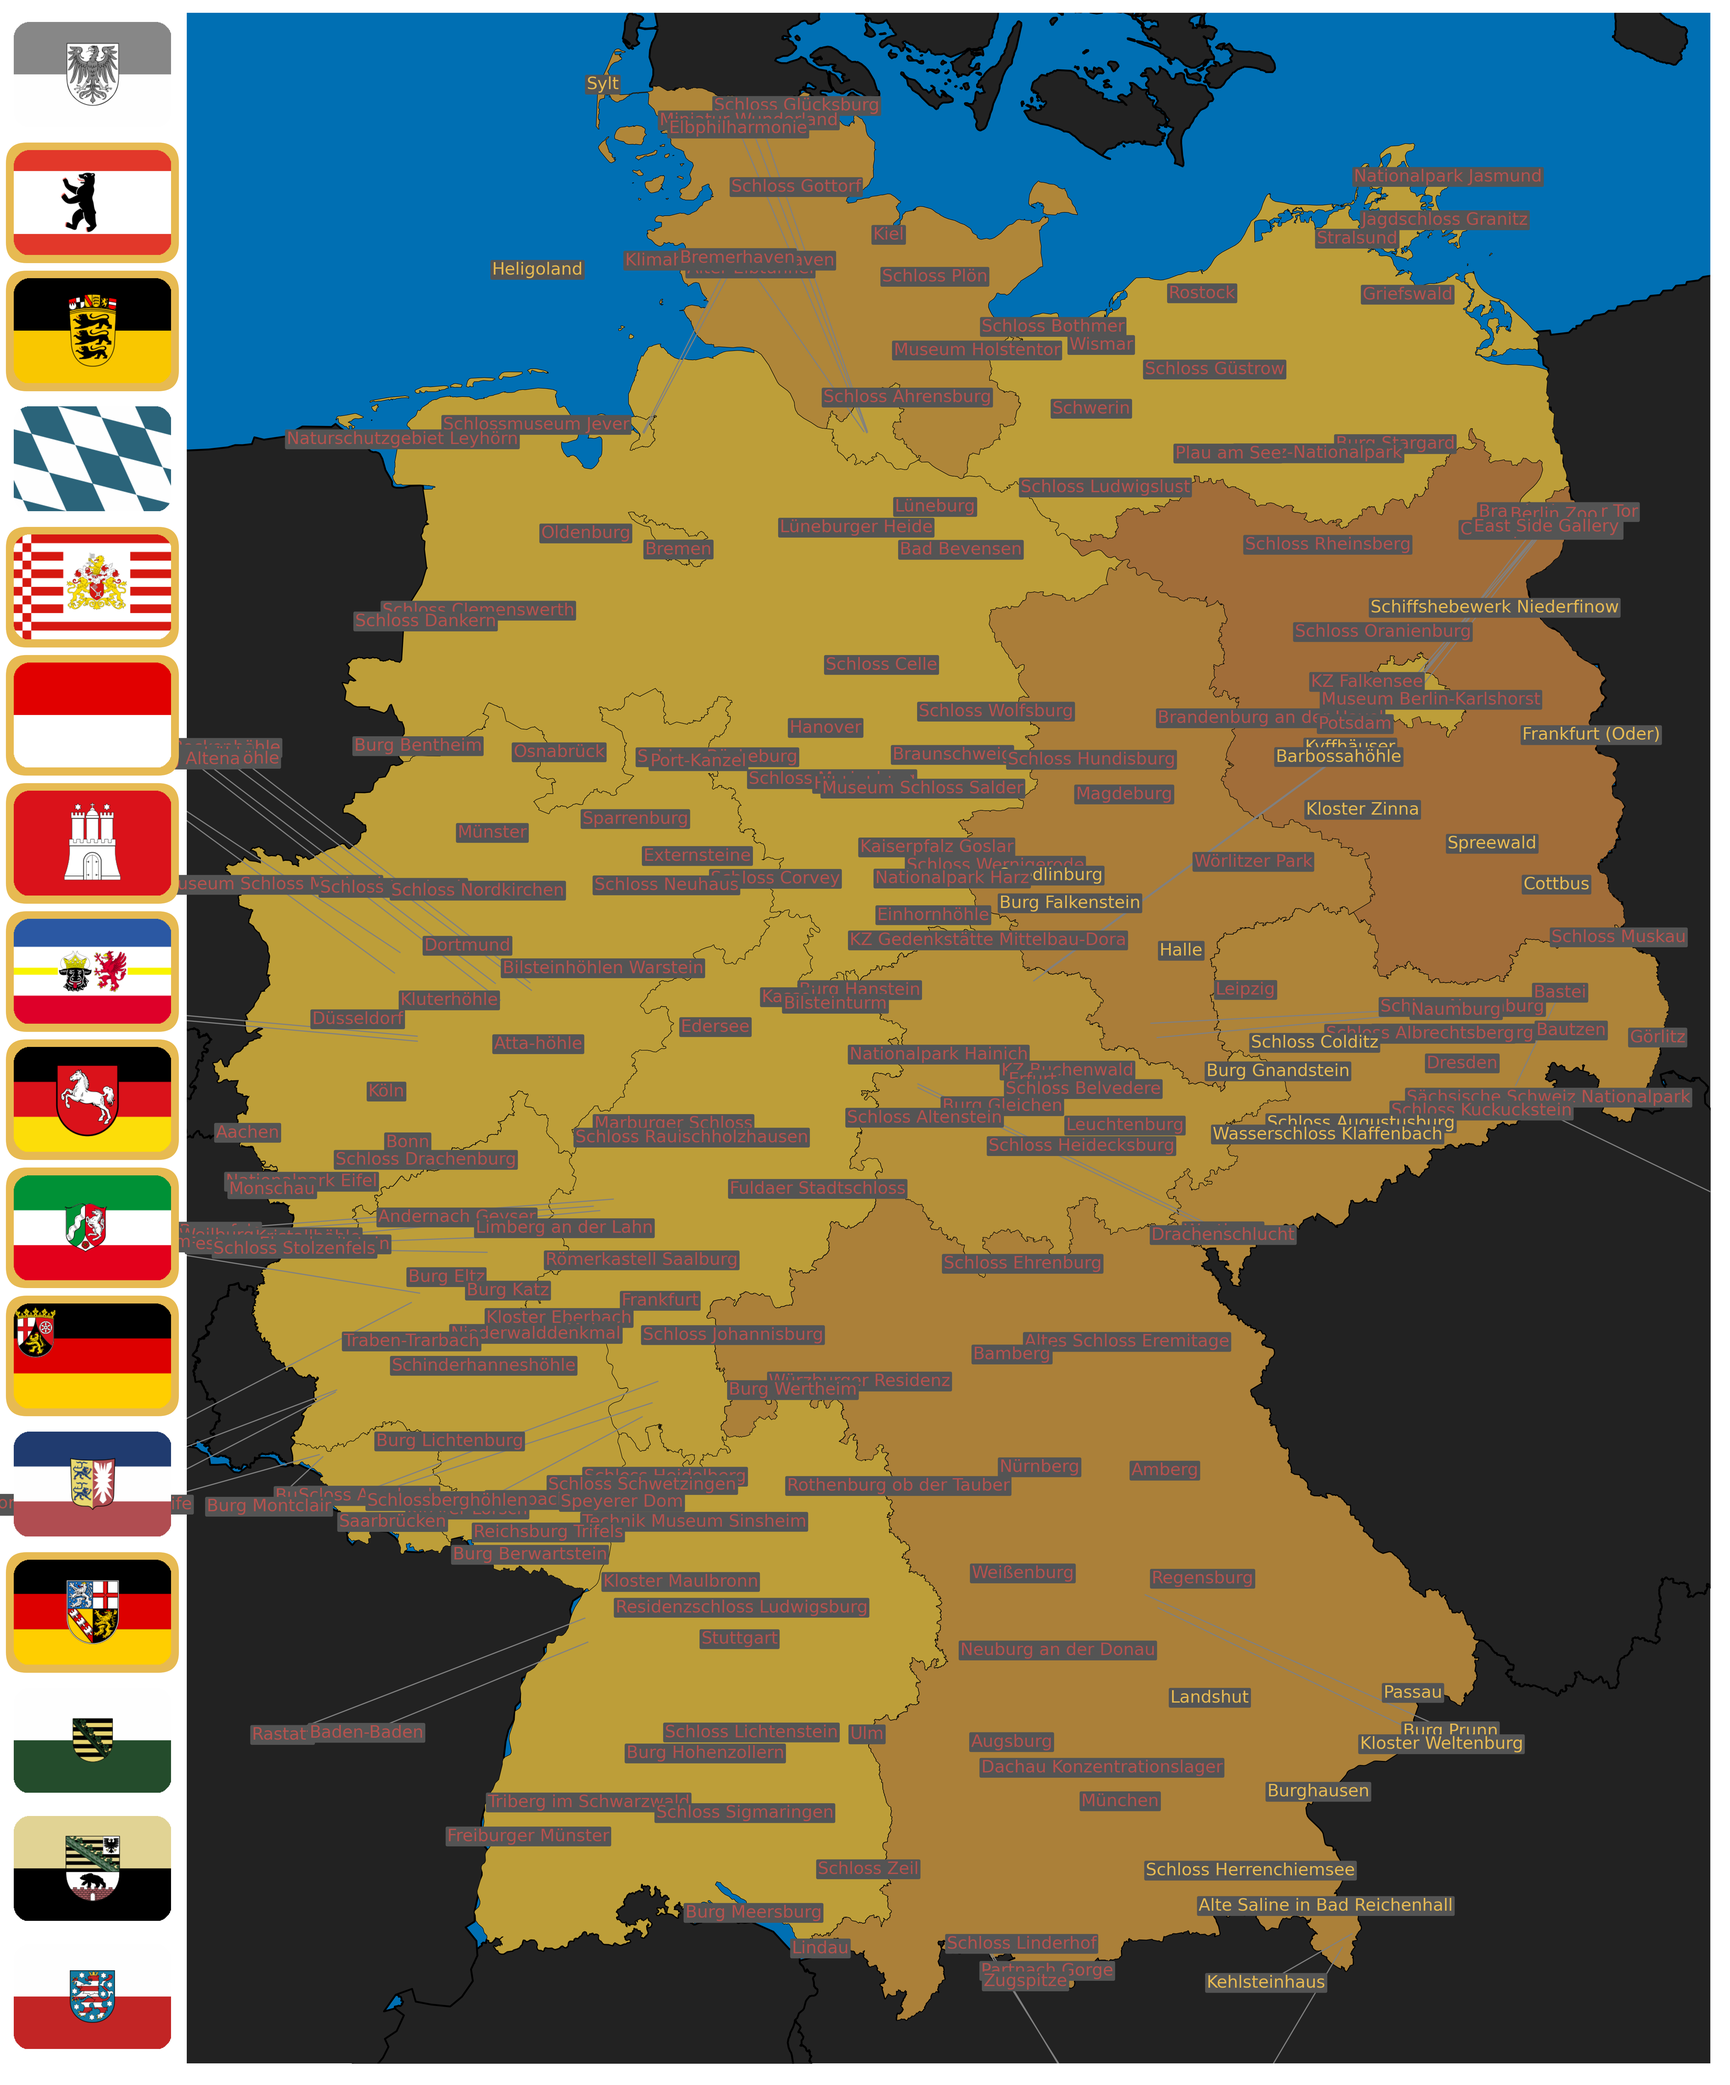
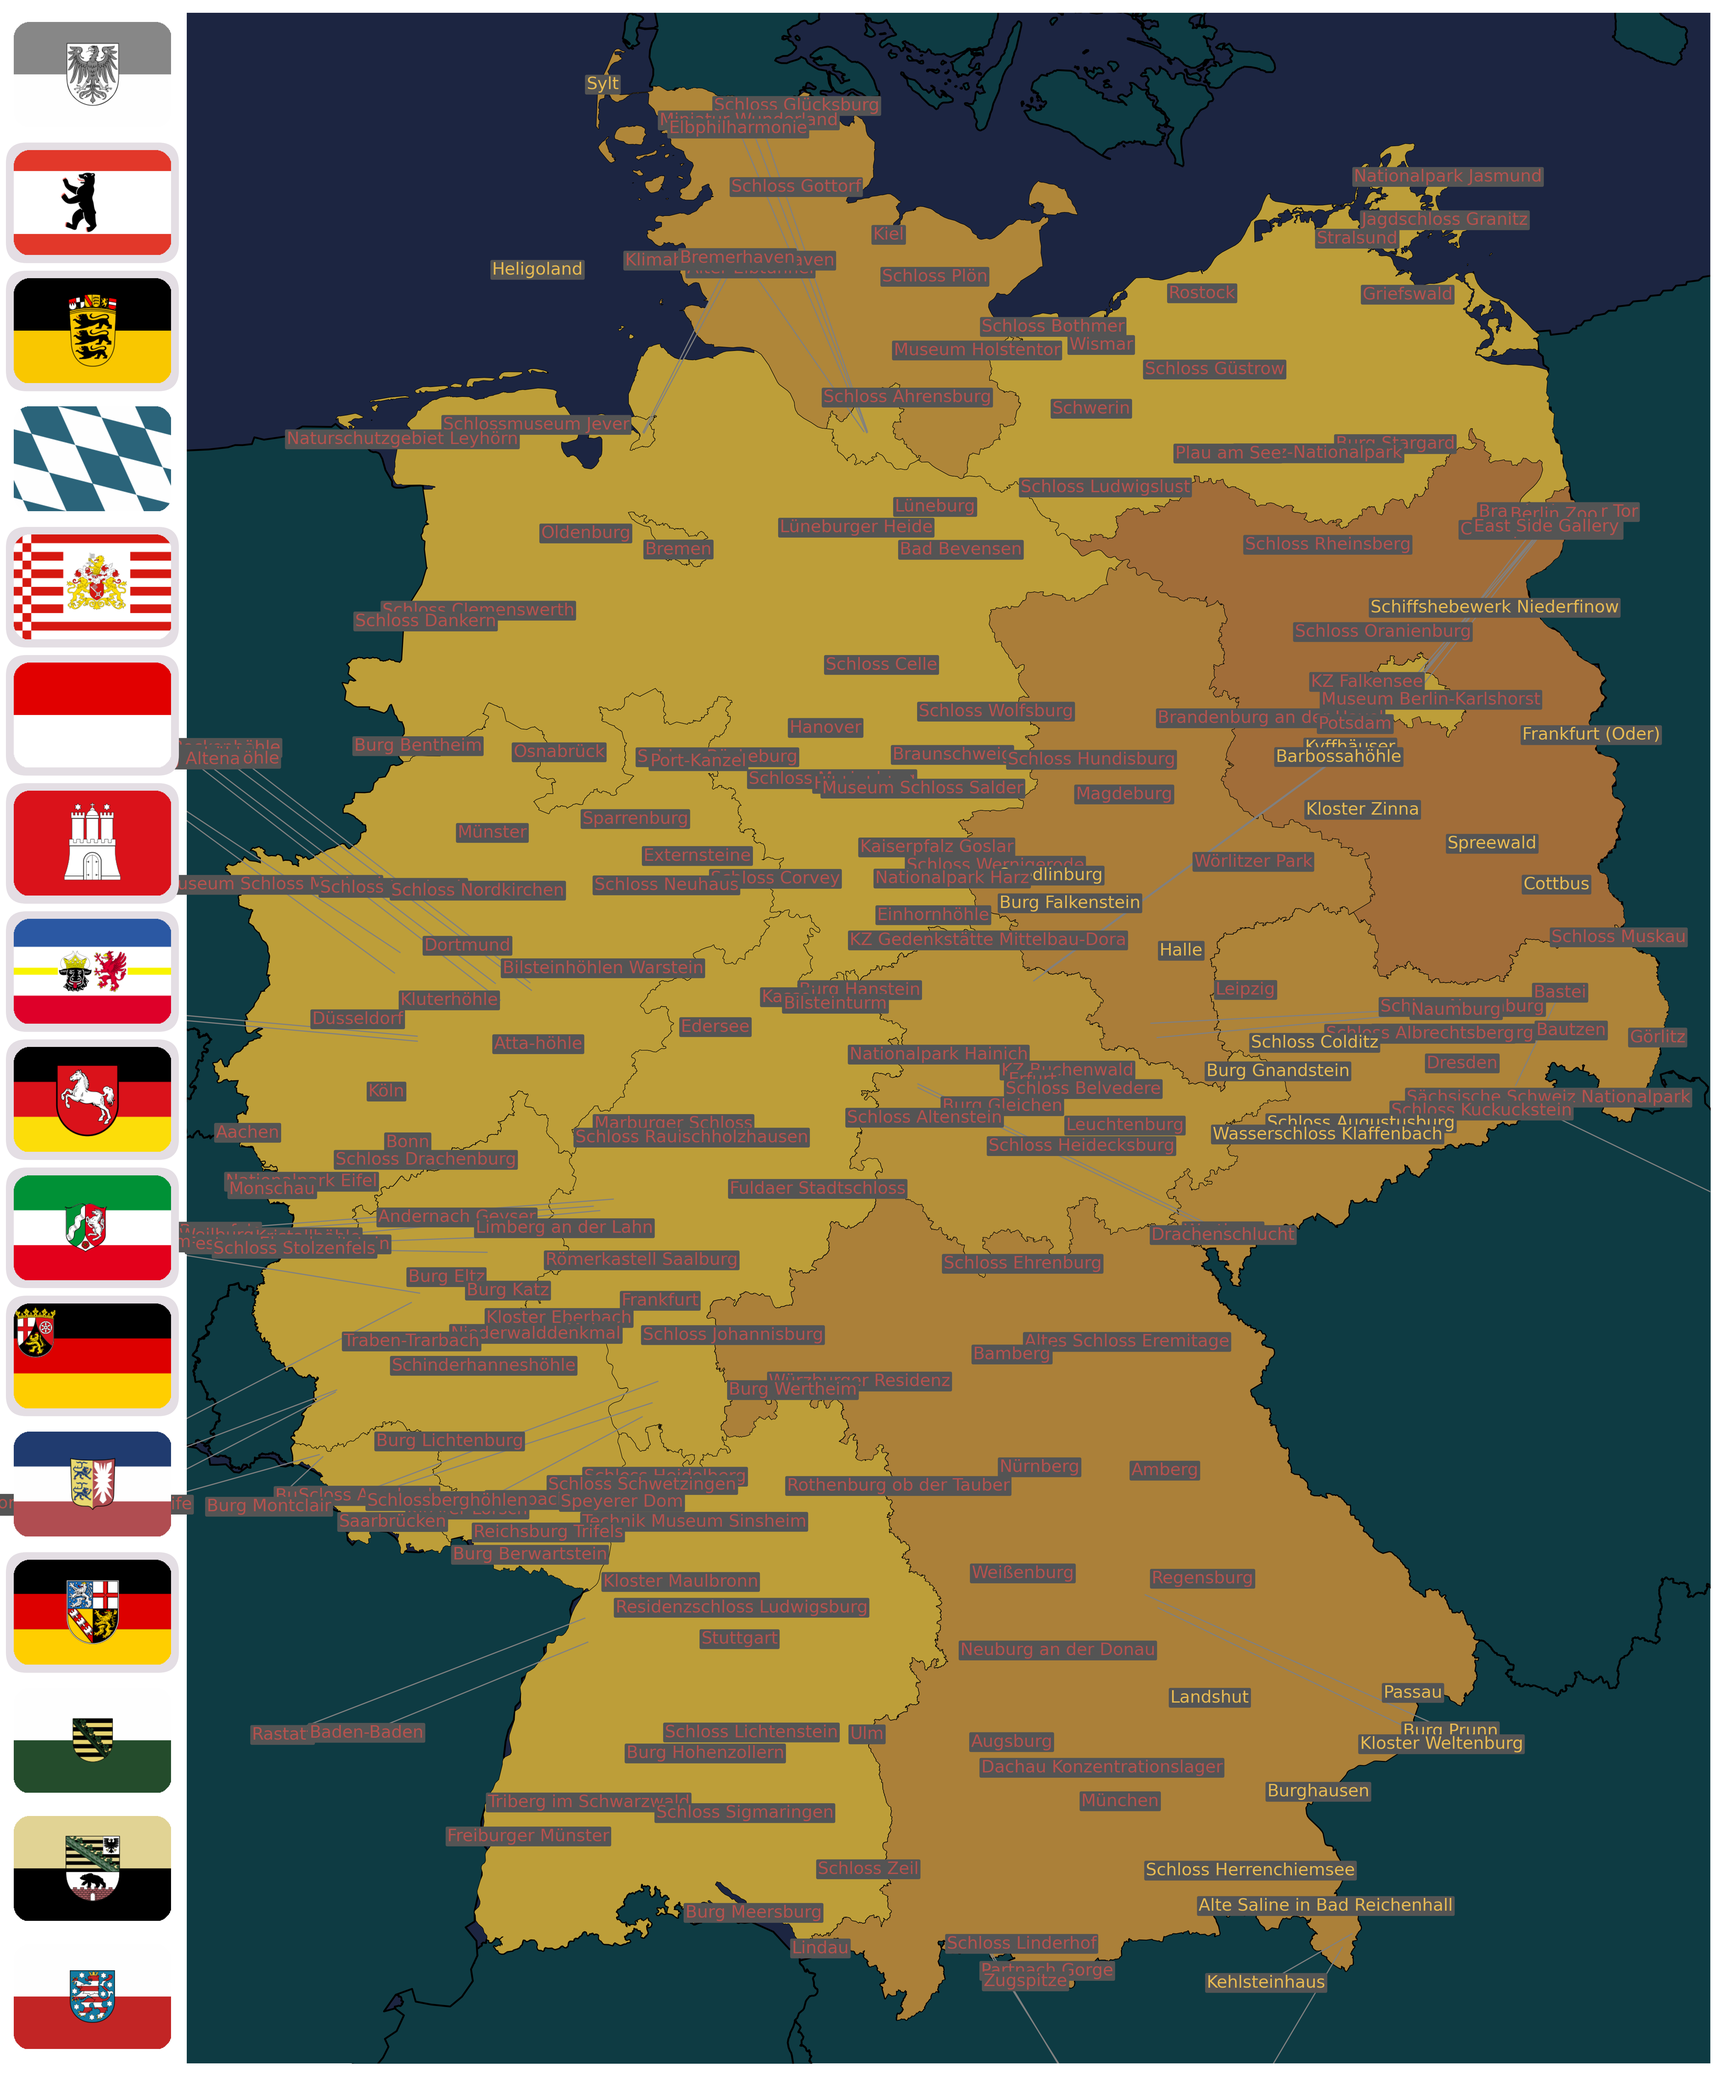
update DE coloration

diff --git a/main.py b/main.py
@@ -15,10 +15,10 @@ from utils.file_utils import ensure_directory_exists
 #PATH = "us"
 
 # Germany Global Variables
-#PATH = "de"
+PATH = "de"
 
 # Europe Global Variables
-PATH = "eu"
+#PATH = "eu"
 
 # Iran Global Variables
 #PATH = "ir"
